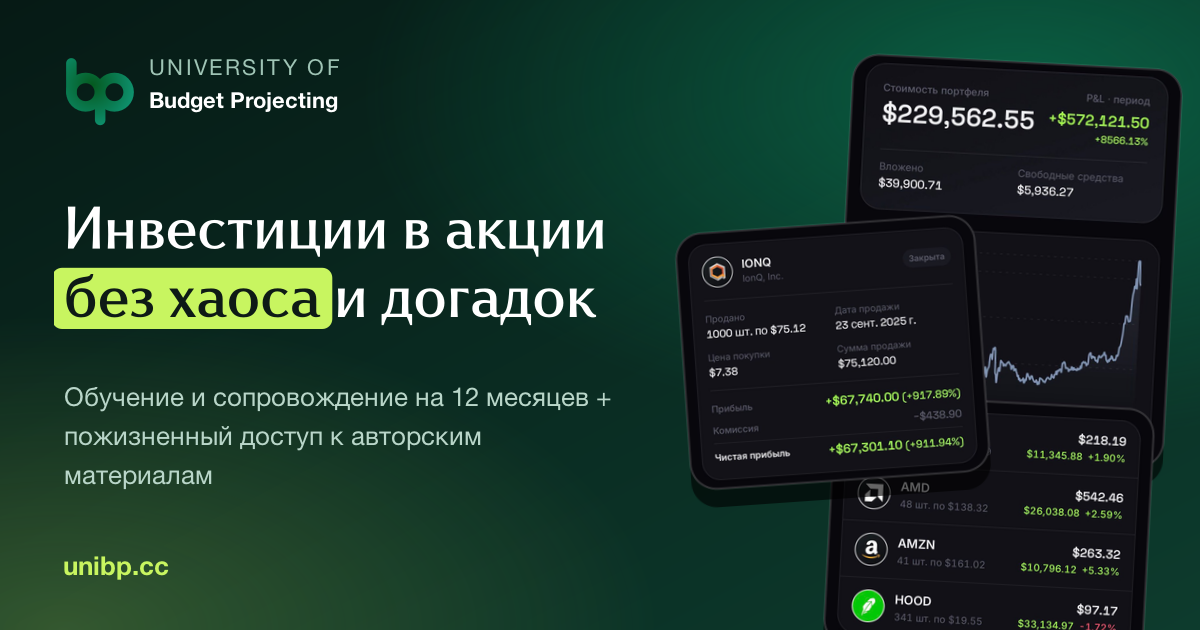
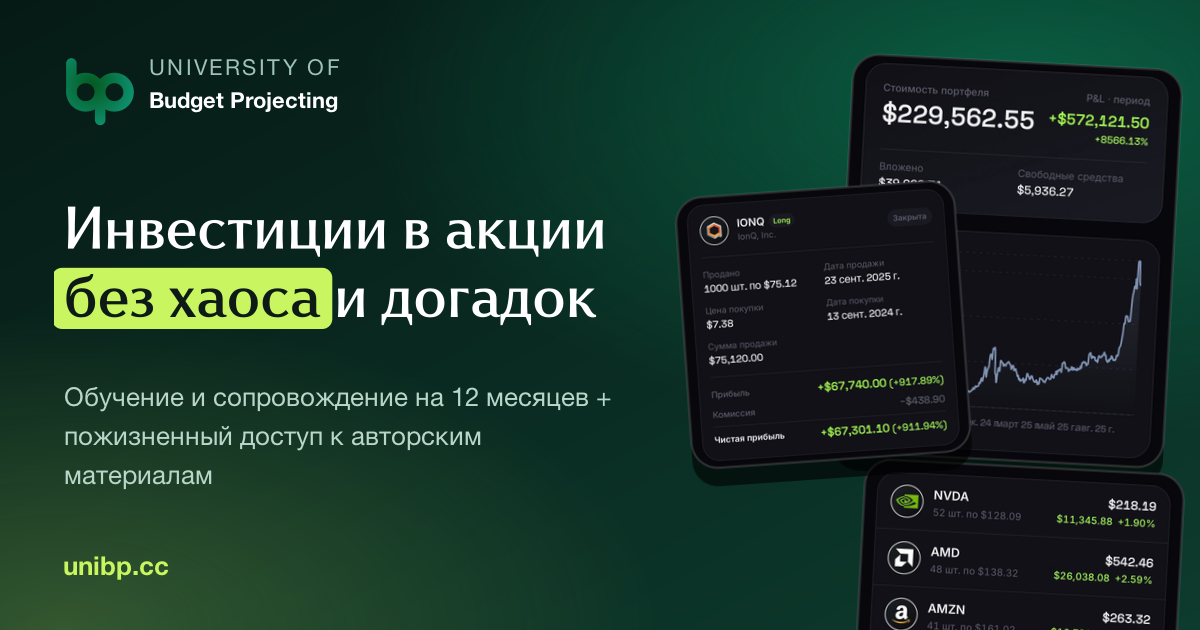
Update IONQ trade screenshot and social preview

Changed region(s): [[0.555, 0.2714, 0.9867, 1.0], [0.74, 0.2714, 0.8017, 0.3016], [0.74, 0.3317, 0.7708, 0.3619]]

diff --git a/src/app/globals.css b/src/app/globals.css
@@ -109,7 +109,7 @@ p { color: var(--muted); }
 .hero-shot::before { content: ""; position: absolute; inset: 10% -8%; z-index: -1; border-radius: 50%; background: radial-gradient(closest-side, rgba(11, 138, 95, .35), transparent); filter: blur(34px); }
 .shot { position: absolute; display: block; height: auto; border-radius: 26px; border: 1px solid rgba(255, 255, 255, .1); box-shadow: 0 50px 90px -30px rgba(14, 26, 22, .6), 0 18px 36px -18px rgba(14, 26, 22, .5); animation: float 7s ease-in-out infinite; }
 .shot-a { top: 0; right: 0; width: 72%; transform: rotate(2deg); }
-.shot-c { top: 17%; left: 0; width: 64%; transform: rotate(-3deg); animation-delay: -1.8s; }
+.shot-c { top: 15%; left: 0; width: 56%; transform: rotate(-3deg); animation-delay: -1.8s; }
 .shot-b { bottom: 0; right: 0; width: 70%; transform: rotate(2.5deg); animation-delay: -3.5s; }
 @keyframes float { 50% { translate: 0 -8px; } }
 
